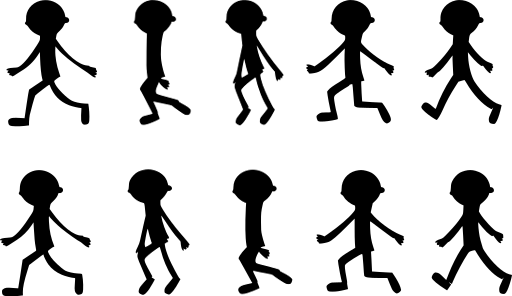
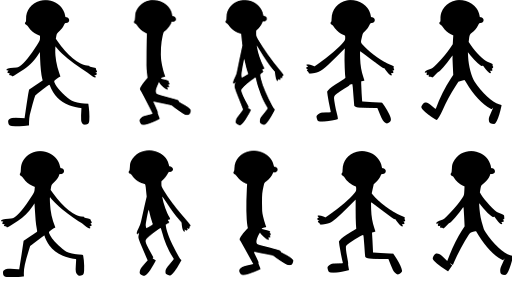
ヘルプ画面

diff --git a/2-4e/Player.cpp b/2-4e/Player.cpp
@@ -27,7 +27,7 @@ Player::Player()
 
 	PlayerState = PLAYER_STATE::IDOL;
 
-	if ((LoadDivGraph("Resource/Images/147431.png", 9, 5, 2, 100, 148, gh)) == -1)
+	if ((LoadDivGraph("Resource/Images/147431.png", 9, 5, 2, 102, 148, gh)) == -1)
 	{
 		throw "Resource/Images/147431.png";
 	}
